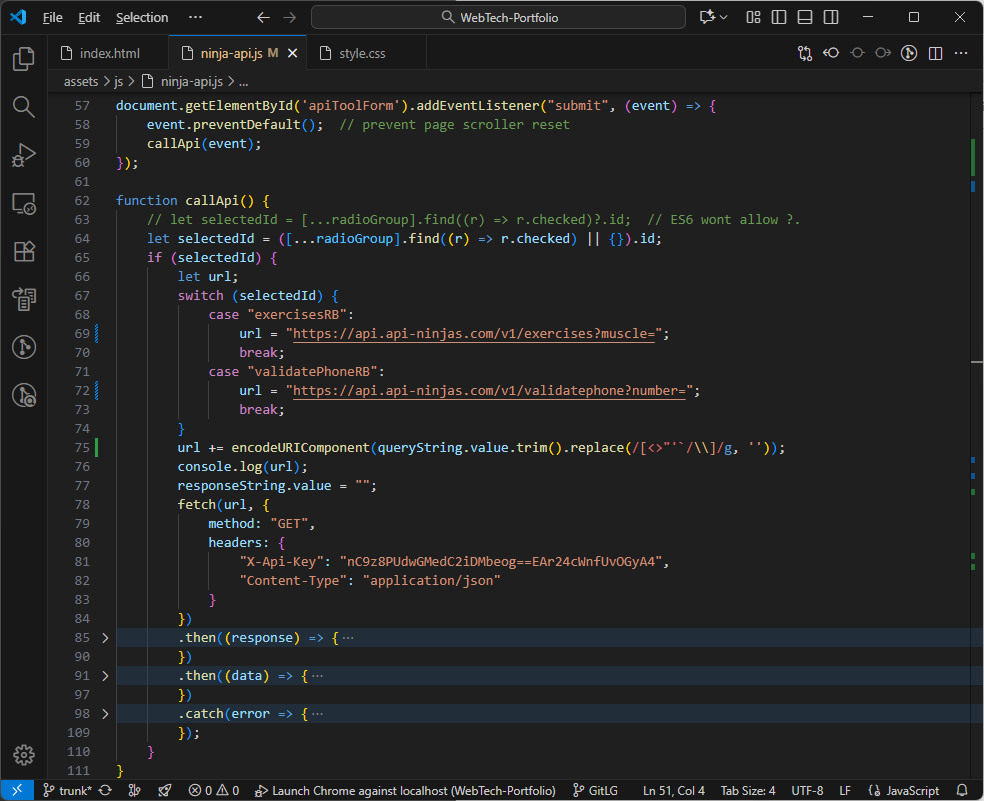
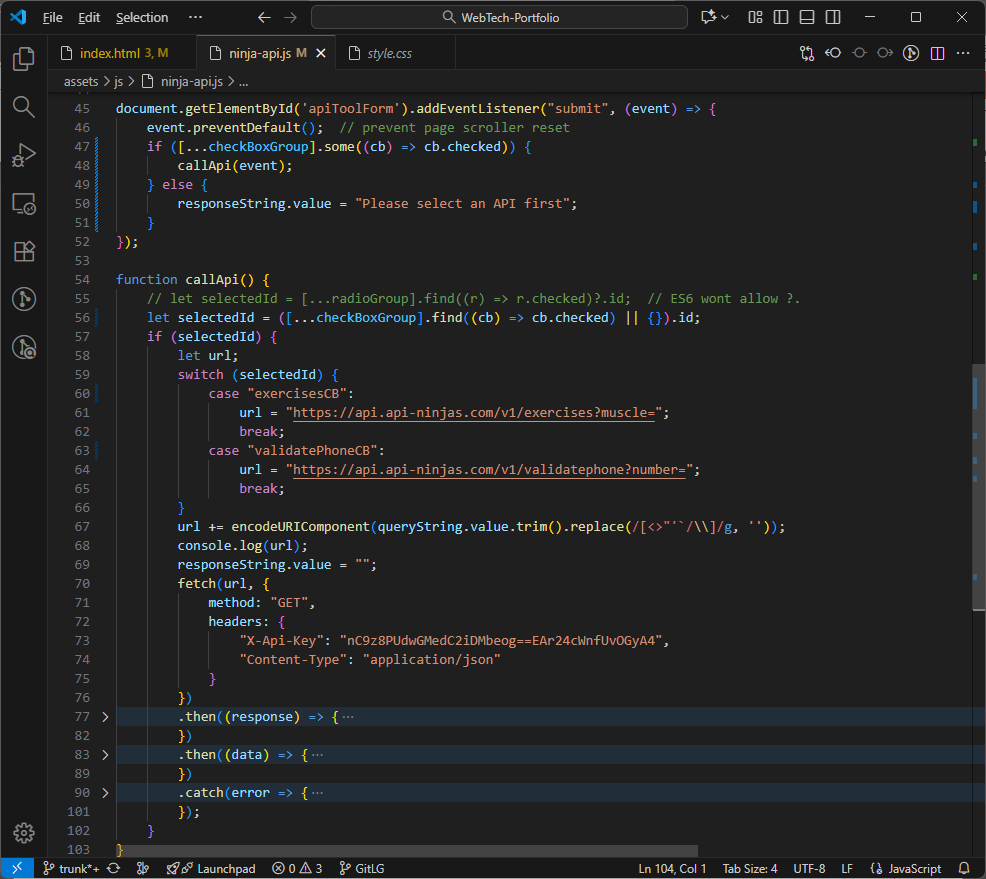
feat: simpler form

diff --git a/assets/js/ninja-api.js b/assets/js/ninja-api.js
@@ -5,48 +5,36 @@
 // radio buttons. In case the point of the exercise is to code the
 // mutually exclusive behavior, put them in different groups so we have to
 // implement the behavior in code.
+// Changed to checkboxes, lacking a sound reason, IMHO.
 
-EXERCISES_HELP = "\n\nNo Results\n\nEnter the name of a major muscle group, such as:\n" +
-				 "    Abdominals\n" +
-				 "    Glutes\n" +
-				 "    Triceps\n";
-VALIDATE_PHONE_HELP = "\n\nNo Result\n\nEnter a country code followed by a phone number.\n" +
-                      "For example 61 followed by an Australian phone number.\n";
+const EXERCISES_HELP = "\n\nNo Results\n\nEnter the name of a major muscle group, such as:\n" +
+					   "    Abdominals\n" +
+					   "    Glutes\n" +
+					   "    Triceps\n";
+const VALIDATE_PHONE_HELP = "\n\nNo Result\n\nEnter a country code followed by a phone number.\n" +
+							"For example 61 followed by an Australian phone number (611300300822).\n";
 
 let apiQueryStrings = {
-	exercisesRB: { query: "abdominals", result: "" , help: EXERCISES_HELP },
-	validatePhoneRB: { query: "611300300822", result: "", help: VALIDATE_PHONE_HELP },
+	exercisesCB: { query: "abdominals", result: "" , help: EXERCISES_HELP },
+	validatePhoneCB: { query: "611300300822", result: "", help: VALIDATE_PHONE_HELP },
 };
 
 let queryString = document.getElementById("queryString");
 let responseString = document.getElementById("responseString");
 
-const radioGroup = document.querySelectorAll('.radioGroup');
+const checkBoxGroup = document.querySelectorAll('.checkGroup');
 
-radioGroup.forEach((radioButton) => {
-	radioButton.addEventListener('change', (event) => {
-		let firstClick = true;
-		radioGroup.forEach((radio) => {
-			if (radio !== event.target && radio.checked === true) {
-				// This is the 'on' radio button that we must turn 'off'
-				radio.checked = false;
-				firstClick = false;
-				// Save query+result before it is overwritten
-				apiQueryStrings[radio.id].query = queryString.value;
-				apiQueryStrings[radio.id].result = responseString.value;
-				//const elem = queryString;
-				//console.log(elem, typeof elem, elem.value);
-			}
-		});
-		// This is the 'off' radio button that has been turned 'on'
-		// Lookup the saved query+result
-		if (!firstClick || !queryString.value) {
-			// If this was not the first time radio button was clicked, or user
-			// has not typed into queryString, use their input instead of default
-			queryString.value = apiQueryStrings[event.target.id].query;
+checkBoxGroup.forEach((currentCheckBox) => {
+	currentCheckBox.addEventListener('change', (event) => {
+		if (currentCheckBox.checked) {
+			queryString.value = "";
+			responseString.value = "";
+			checkBoxGroup.forEach((other) => {
+				if (currentCheckBox !== other) {
+					other.checked = false;
+				}
+			});
 		}
-		responseString.value = apiQueryStrings[event.target.id].result;
-		console.log("DB: " + JSON.stringify(apiQueryStrings, null, "\t"));
 	});
 });
 
@@ -56,19 +44,23 @@ document.getElementById('clearButton').addEventListener("click", () => {
 
 document.getElementById('apiToolForm').addEventListener("submit", (event) => {
 	event.preventDefault();  // prevent page scroller reset
-	callApi(event);
+	if ([...checkBoxGroup].some((cb) => cb.checked)) {
+		callApi(event);
+	} else {
+		responseString.value = "Please select an API first";
+	}
 });
 
 function callApi() {
 	// let selectedId = [...radioGroup].find((r) => r.checked)?.id;  // ES6 wont allow ?.
-	let selectedId = ([...radioGroup].find((r) => r.checked) || {}).id;
+	let selectedId = ([...checkBoxGroup].find((cb) => cb.checked) || {}).id;
 	if (selectedId) {
 		let url;
 		switch (selectedId) {
-			case "exercisesRB":
+			case "exercisesCB":
 				url = "https://api.api-ninjas.com/v1/exercises?muscle=";
 				break;
-			case "validatePhoneRB":
+			case "validatePhoneCB":
 				url = "https://api.api-ninjas.com/v1/validatephone?number=";
 				break;
 		}
@@ -91,7 +83,7 @@ function callApi() {
 		.then((data) => {
 			console.log("data:", data);
 			responseString.value = JSON.stringify(data, null, 2);
-			if (data.length == 0 && selectedId == "exercisesRB") {
+			if (data.length == 0 && selectedId == "exercisesCB") {
 				responseString.value += apiQueryStrings[selectedId].help;
 			}
 		})

diff --git a/phase-4/index.html b/phase-4/index.html
@@ -3,7 +3,7 @@
 	<head>
 		<!-- <meta http-equiv="refresh" content="2"> -->
 		<meta charset="utf-8">
-		<title>Phase 3 Sample</title>
+		<title>Phase 4 Sample</title>
 		<link rel="stylesheet" href="../assets/css/modern-normalize.css">
 		<link rel="stylesheet" href="../assets/css/style.css">
 		<script src="../assets/js/ninja-api.js" defer></script>
@@ -111,12 +111,12 @@
 								<span>Select Ninja API: </span>
 								<div>
 									<div>
-										<input type="radio" name="radioGroupE" id="exercisesRB" value="exercises" class="radioGroup">
-										<label for="exercisesRB">Exercises</label>
+										<input type="checkbox" name="checkGroupE" id="exercisesCB" value="exercises" class="checkGroup">
+										<label for="exercisesCB">Exercises</label>
 									</div>
 									<div>
-										<input type="radio" name="radioGroupP" id="validatePhoneRB" value="phone" class="radioGroup">
-										<label for="validatePhoneRB">Validate Phone</label>
+										<input type="checkbox" name="checkGroupP" id="validatePhoneCB" value="phone" class="checkGroup">
+										<label for="validatePhoneCB">Validate Phone</label>
 									</div>
 								</div>
 							</div>
